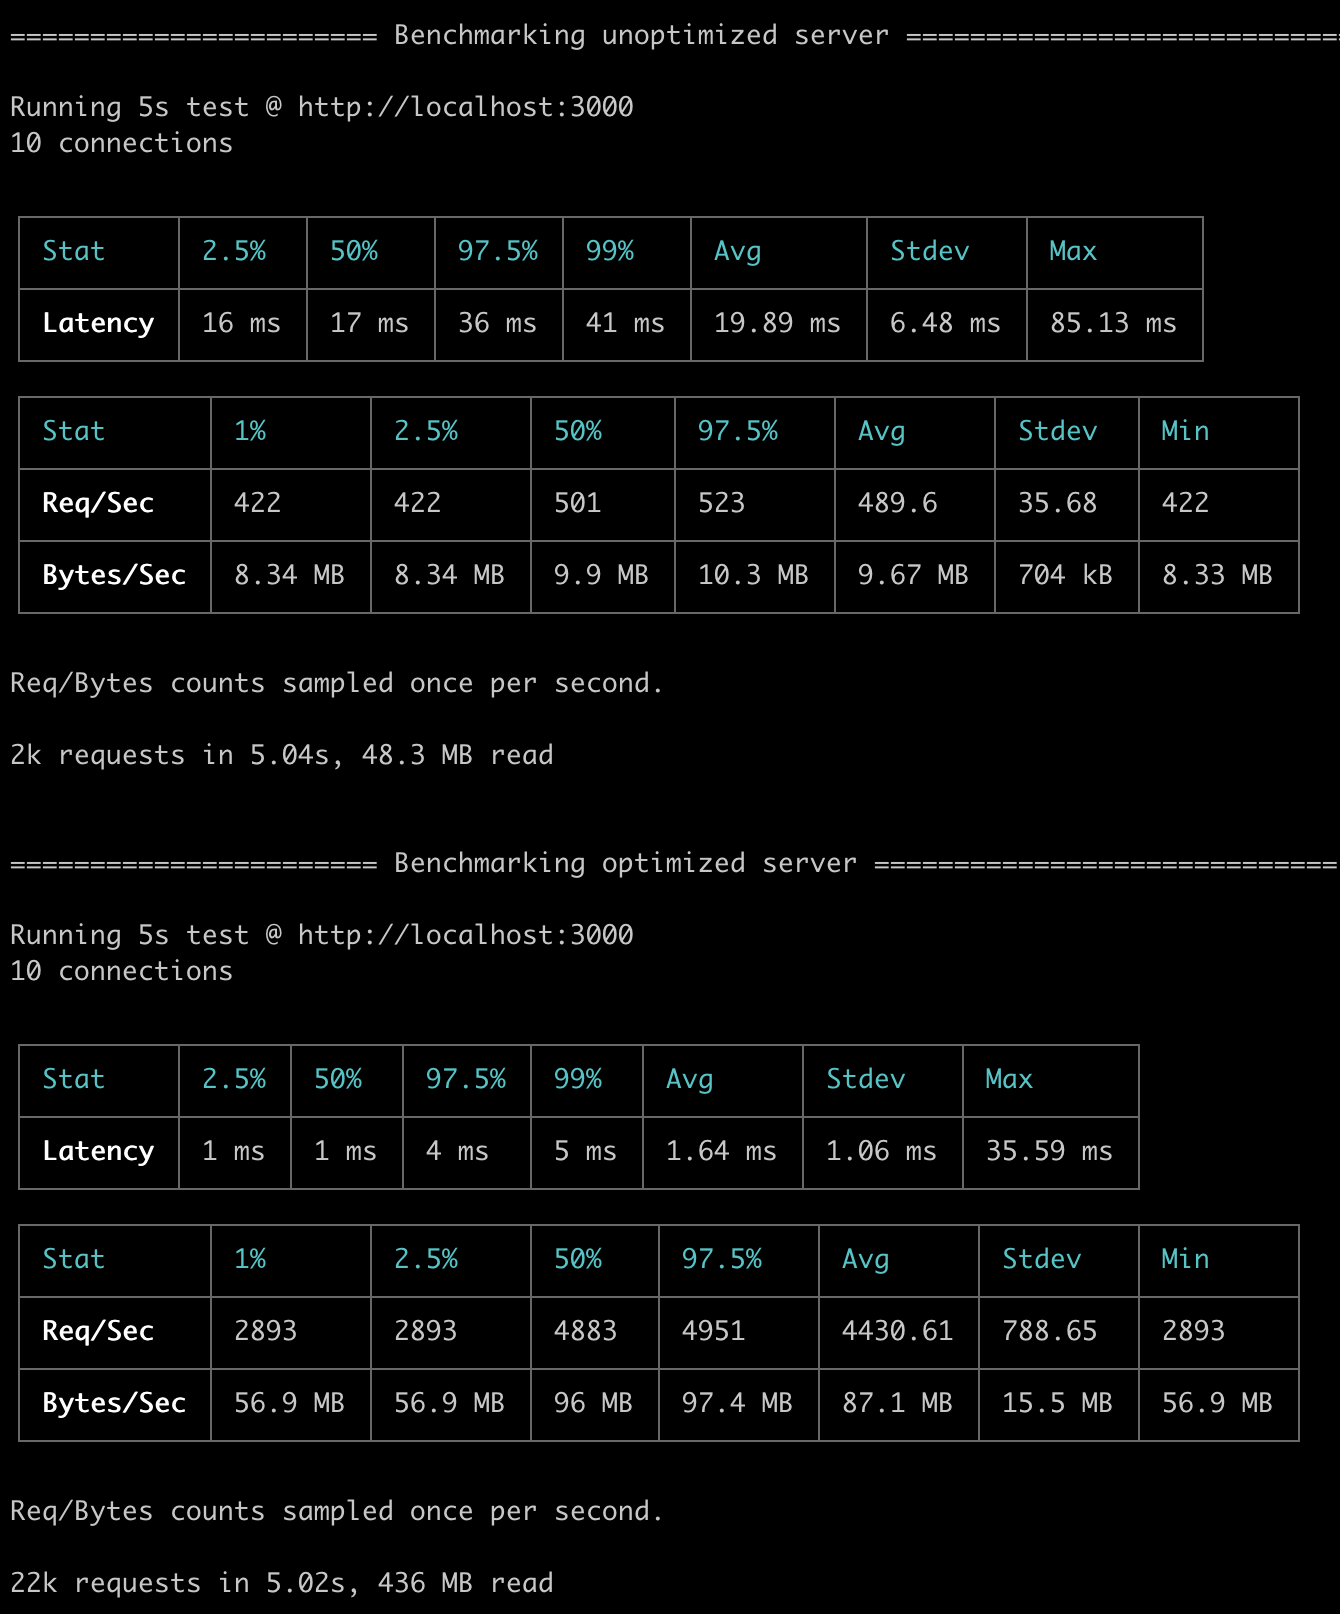
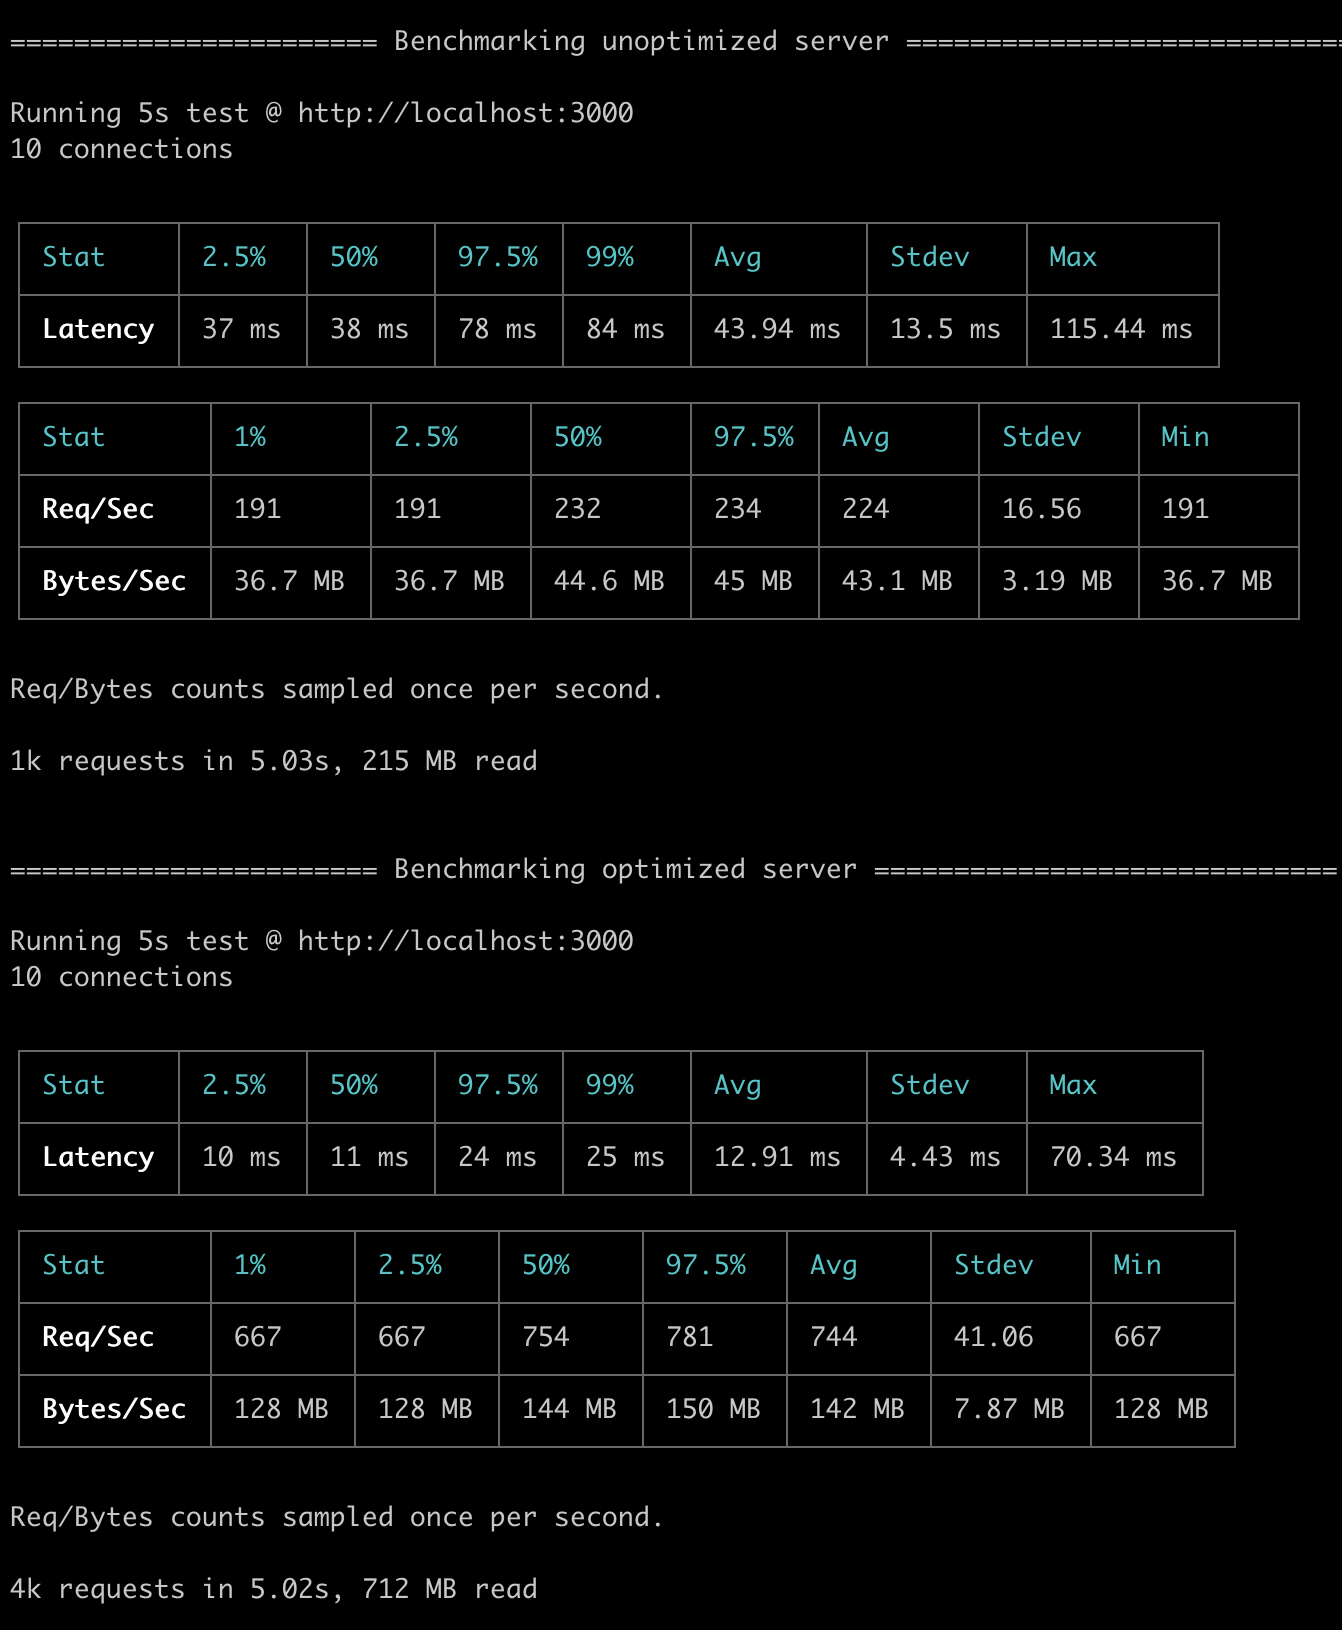
img adjust

diff --git a/dist/client/app.js b/dist/client/app.js
@@ -261,7 +261,7 @@ eval("\n\nconst React = __webpack_require__(/*! react */ \"./node_modules/react/
 /***/ (function(module, exports, __webpack_require__) {
 
 "use strict";
-eval("\n\nconst data = [{\n  id: '17254222',\n  title: 'Ions: Develop cloud applications by deploying to a running Datomic cluster',\n  url: 'https://docs.datomic.com/cloud/ions/ions.html',\n  score: 41,\n  by: {\n    id: 'simonpure'\n  }\n}, {\n  id: '17254370',\n  title: 'Einstein in Oxford',\n  url: 'http://rsnr.royalsocietypublishing.org/content/early/2018/05/09/rsnr.2018.0002',\n  score: 17,\n  by: {\n    id: 'sohkamyung'\n  }\n}, {\n  id: '17252585',\n  title: 'Cutter – A Qt and C++ GUI for Radare2 reverse engineering framework',\n  url: 'https://github.com/radareorg/cutter',\n  score: 223,\n  by: {\n    id: 'xvilka'\n  }\n}, {\n  id: '17254055',\n  title: 'Caffeine dosing strategies to optimize alertness during sleep loss',\n  url: 'https://onlinelibrary.wiley.com/doi/epdf/10.1111/jsr.12711',\n  score: 31,\n  by: {\n    id: 'nickcw'\n  }\n}, {\n  id: '17250697',\n  title: 'Extracting the private key from a TREZOR with an oscilloscope (2015)',\n  url: 'https://jochen-hoenicke.de/trezor-power-analysis/',\n  score: 334,\n  by: {\n    id: 'mlejva'\n  }\n}];\nmodule.exports = Array.from({\n  length: 15\n}).reduce(a => {\n  return [...a, ...data];\n}, []);\n\n//# sourceURL=webpack:///./src/client/js/components/Page/data.js?");
+eval("\n\nconst data = [{\n  id: '17254222',\n  title: 'Ions: Develop cloud applications by deploying to a running Datomic cluster',\n  url: 'https://docs.datomic.com/cloud/ions/ions.html',\n  score: 41,\n  by: {\n    id: 'simonpure'\n  }\n}, {\n  id: '17254370',\n  title: 'Einstein in Oxford',\n  url: 'http://rsnr.royalsocietypublishing.org/content/early/2018/05/09/rsnr.2018.0002',\n  score: 17,\n  by: {\n    id: 'sohkamyung'\n  }\n}, {\n  id: '17252585',\n  title: 'Cutter – A Qt and C++ GUI for Radare2 reverse engineering framework',\n  url: 'https://github.com/radareorg/cutter',\n  score: 223,\n  by: {\n    id: 'xvilka'\n  }\n}, {\n  id: '17254055',\n  title: 'Caffeine dosing strategies to optimize alertness during sleep loss',\n  url: 'https://onlinelibrary.wiley.com/doi/epdf/10.1111/jsr.12711',\n  score: 31,\n  by: {\n    id: 'nickcw'\n  }\n}, {\n  id: '17250697',\n  title: 'Extracting the private key from a TREZOR with an oscilloscope (2015)',\n  url: 'https://jochen-hoenicke.de/trezor-power-analysis/',\n  score: 334,\n  by: {\n    id: 'mlejva'\n  }\n}];\nmodule.exports = Array.from({\n  length: 175\n}).reduce(a => {\n  return [...a, ...data];\n}, []);\n\n//# sourceURL=webpack:///./src/client/js/components/Page/data.js?");
 
 /***/ }),
 

diff --git a/dist/server/page.html.js b/dist/server/page.html.js
@@ -71,58 +71,6 @@ module.exports = async function renderPage(request, reply) {
     rel: "manifest",
     href: "/manifest.json"
   }), React.createElement("link", {
-    rel: "icon",
-    href: "/images/favicon.ico",
-    sizes: "32x32"
-  }), React.createElement("link", {
-    rel: "shortcut icon",
-    href: "images/favicon.ico",
-    sizes: "196x196"
-  }), React.createElement("link", {
-    rel: "apple-touch-icon",
-    href: "/images/icon-120.png"
-  }), React.createElement("link", {
-    rel: "apple-touch-icon",
-    href: "/images/icon-152.png",
-    sizes: "152x152"
-  }), React.createElement("link", {
-    rel: "apple-touch-icon",
-    href: "/images/icon-167.png",
-    sizes: "167x167"
-  }), React.createElement("link", {
-    rel: "apple-touch-icon",
-    href: "/images/icon-180.png",
-    sizes: "180x180"
-  }), React.createElement("link", {
-    rel: "manifest",
-    href: "/manifest.json"
-  }), React.createElement("link", {
-    rel: "icon",
-    href: "/images/favicon.ico",
-    sizes: "32x32"
-  }), React.createElement("link", {
-    rel: "shortcut icon",
-    href: "images/favicon.ico",
-    sizes: "196x196"
-  }), React.createElement("link", {
-    rel: "apple-touch-icon",
-    href: "/images/icon-120.png"
-  }), React.createElement("link", {
-    rel: "apple-touch-icon",
-    href: "/images/icon-152.png",
-    sizes: "152x152"
-  }), React.createElement("link", {
-    rel: "apple-touch-icon",
-    href: "/images/icon-167.png",
-    sizes: "167x167"
-  }), React.createElement("link", {
-    rel: "apple-touch-icon",
-    href: "/images/icon-180.png",
-    sizes: "180x180"
-  }), React.createElement("link", {
-    rel: "manifest",
-    href: "/manifest.json"
-  }), React.createElement("link", {
     rel: "apple-touch-startup-image",
     href: "/images/splash_640x1136.png",
     media: "(device-width: 320px) and (device-height: 568px) and (-webkit-device-pixel-ratio: 2) and (orientation: portrait)"

diff --git a/optimized-src/server/page.html.js b/optimized-src/server/page.html.js
@@ -30,20 +30,6 @@ module.exports = async function renderPage(request, reply) {
         <link rel="apple-touch-icon" href="/images/icon-167.png" sizes="167x167" />
         <link rel="apple-touch-icon" href="/images/icon-180.png" sizes="180x180" />
         <link rel="manifest" href="/manifest.json" />
-        <link rel="icon" href="/images/favicon.ico" sizes="32x32" />
-        <link rel="shortcut icon" href="images/favicon.ico" sizes="196x196" />
-        <link rel="apple-touch-icon" href="/images/icon-120.png" />
-        <link rel="apple-touch-icon" href="/images/icon-152.png" sizes="152x152" />
-        <link rel="apple-touch-icon" href="/images/icon-167.png" sizes="167x167" />
-        <link rel="apple-touch-icon" href="/images/icon-180.png" sizes="180x180" />
-        <link rel="manifest" href="/manifest.json" />
-        <link rel="icon" href="/images/favicon.ico" sizes="32x32" />
-        <link rel="shortcut icon" href="images/favicon.ico" sizes="196x196" />
-        <link rel="apple-touch-icon" href="/images/icon-120.png" />
-        <link rel="apple-touch-icon" href="/images/icon-152.png" sizes="152x152" />
-        <link rel="apple-touch-icon" href="/images/icon-167.png" sizes="167x167" />
-        <link rel="apple-touch-icon" href="/images/icon-180.png" sizes="180x180" />
-        <link rel="manifest" href="/manifest.json" />
 
         <link
           rel="apple-touch-startup-image"

diff --git a/src/server/page.html.jsx b/src/server/page.html.jsx
@@ -31,20 +31,6 @@ module.exports = async function renderPage(request, reply) {
         <link rel="apple-touch-icon" href="/images/icon-167.png" sizes="167x167" />
         <link rel="apple-touch-icon" href="/images/icon-180.png" sizes="180x180" />
         <link rel="manifest" href="/manifest.json" />
-        <link rel="icon" href="/images/favicon.ico" sizes="32x32" />
-        <link rel="shortcut icon" href="images/favicon.ico" sizes="196x196" />
-        <link rel="apple-touch-icon" href="/images/icon-120.png" />
-        <link rel="apple-touch-icon" href="/images/icon-152.png" sizes="152x152" />
-        <link rel="apple-touch-icon" href="/images/icon-167.png" sizes="167x167" />
-        <link rel="apple-touch-icon" href="/images/icon-180.png" sizes="180x180" />
-        <link rel="manifest" href="/manifest.json" />
-        <link rel="icon" href="/images/favicon.ico" sizes="32x32" />
-        <link rel="shortcut icon" href="images/favicon.ico" sizes="196x196" />
-        <link rel="apple-touch-icon" href="/images/icon-120.png" />
-        <link rel="apple-touch-icon" href="/images/icon-152.png" sizes="152x152" />
-        <link rel="apple-touch-icon" href="/images/icon-167.png" sizes="167x167" />
-        <link rel="apple-touch-icon" href="/images/icon-180.png" sizes="180x180" />
-        <link rel="manifest" href="/manifest.json" />
 
         <link
           rel="apple-touch-startup-image"

diff --git a/bench.js b/bench.js
@@ -4,7 +4,7 @@ const { promisify } = require('util')
 const { spawn } = require('child_process')
 const autocannon = require('autocannon')
 const args = process.argv.slice(2)
-
+process.env.NODE_ENV = 'production'
 const up = promisify(function up (port, cb) {
   const socket = net.connect(port)
     .on('error', () => setTimeout(up, 300, port, cb))
@@ -37,7 +37,9 @@ async function bench (cmd) {
   
 `)
 
-  const sp = spawn('npm', ['run', cmd], {stdio: ['ignore', 'ignore', 'inherit']})
+  const sp = spawn('npm', ['run', cmd], {
+    stdio: ['ignore', 'ignore', 'inherit']
+  })
 
   await up(3000)
 

diff --git a/optimized-src/client/js/components/Page/data.js b/optimized-src/client/js/components/Page/data.js
@@ -38,4 +38,4 @@ const data = [
   },
 ]
 
-module.exports = Array.from({length: 15}).reduce((a) => { return [...a, ...data]}, [])
+module.exports = Array.from({length: 175}).reduce((a) => { return [...a, ...data]}, [])

diff --git a/src/client/js/components/Page/data.js b/src/client/js/components/Page/data.js
@@ -38,4 +38,4 @@ const data = [
   },
 ]
 
-module.exports = Array.from({length: 15}).reduce((a) => { return [...a, ...data]}, [])
+module.exports = Array.from({length: 175}).reduce((a) => { return [...a, ...data]}, [])

diff --git a/dist/client/js/components/Page/data.js b/dist/client/js/components/Page/data.js
@@ -42,7 +42,7 @@ const data = [{
   }
 }];
 module.exports = Array.from({
-  length: 15
+  length: 175
 }).reduce(a => {
   return [...a, ...data];
 }, []);

diff --git a/README.md b/README.md
@@ -9,7 +9,11 @@ A small demo of [`esx`](https://github.com/esxjs/esx) in action.
 npm run bench
 ```
 
-![](./bench-results.png)
+### ~330% more throughput, ~325% higher req/s, ~75% lower latency
+
+<p align=center>
+  <img src='./bench-results.png' alt='benchmark results' width=800>
+</p>
 
 ## About
 
